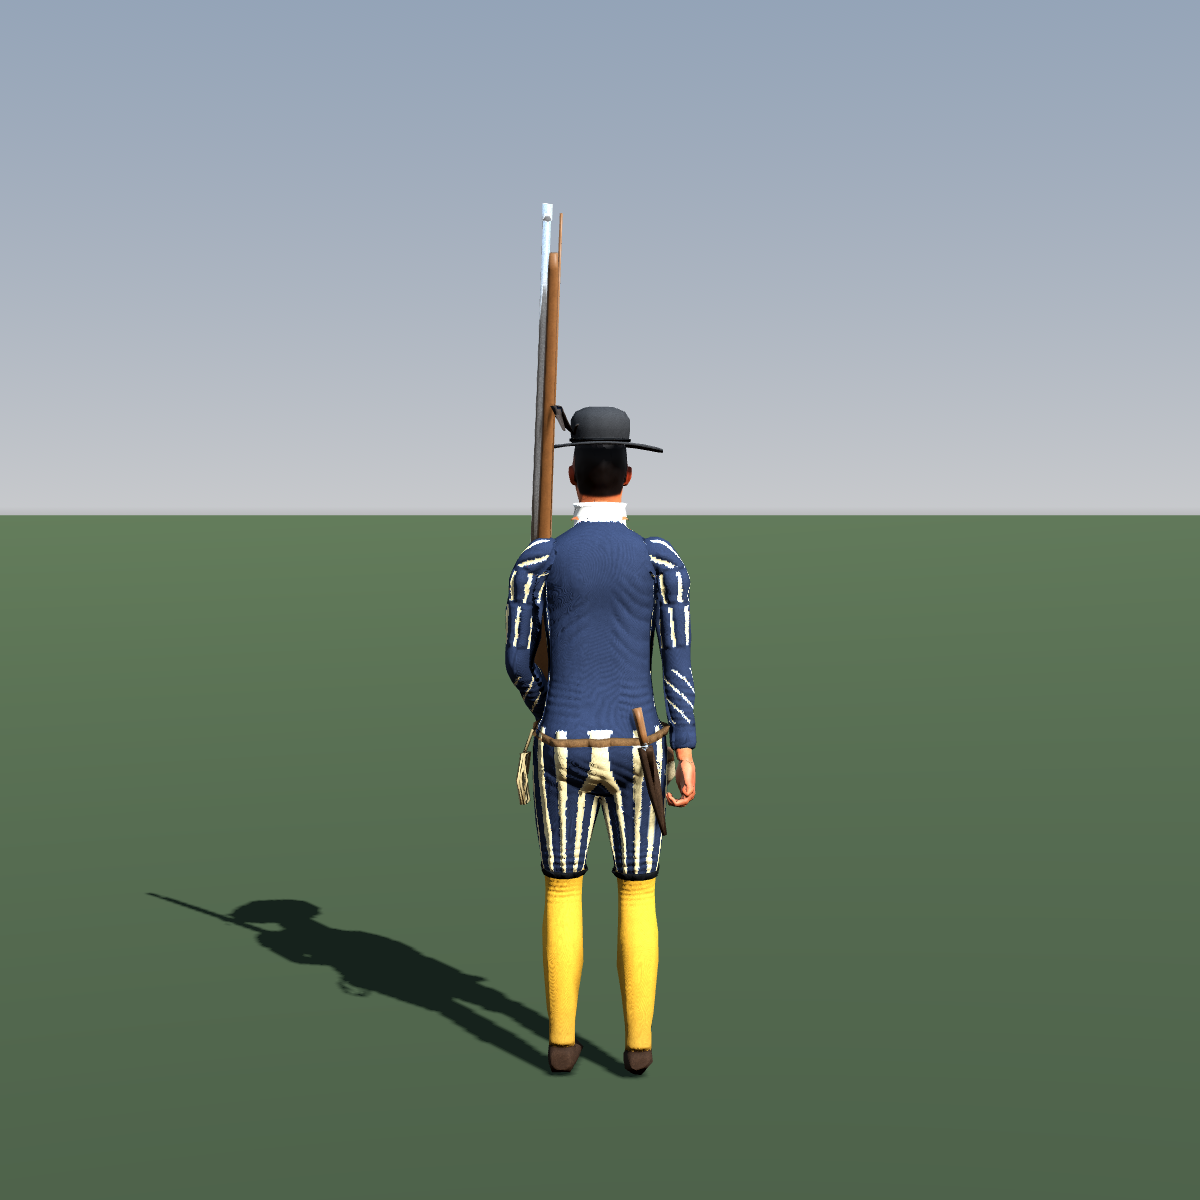
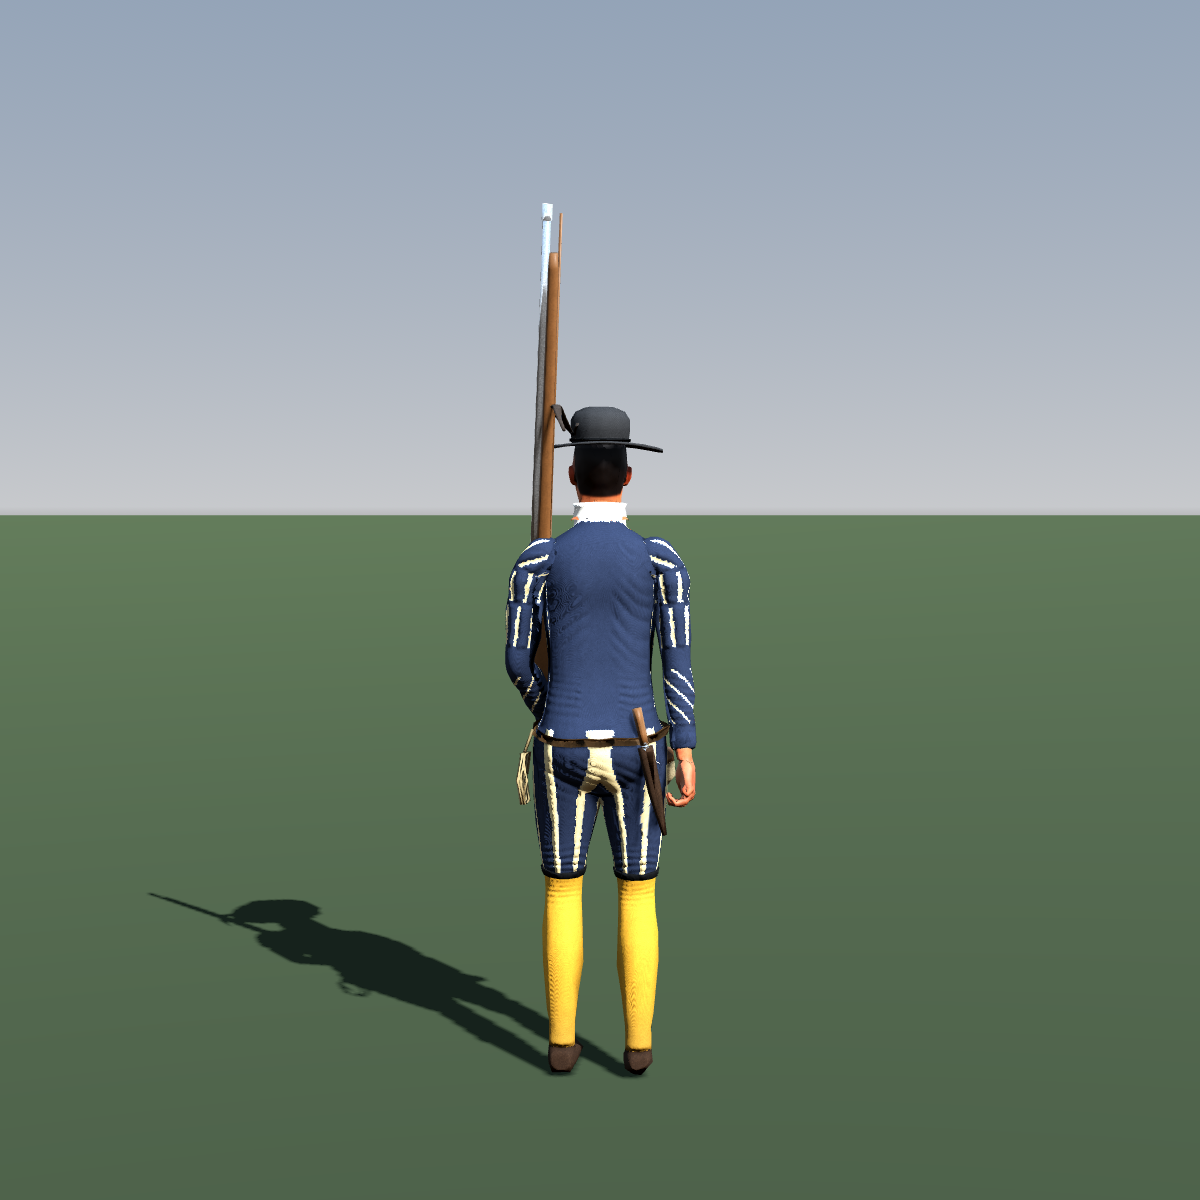
1500 kits: low gathered shirt neck (replaces tall stand collar), skin above 1.512, musket frill lowered

Changed region(s): [[0.4317, 0.5858, 0.555, 0.74], [0.4317, 0.4625, 0.4625, 0.5242], [0.555, 0.555, 0.5858, 0.5858]]

diff --git a/pipeline/blender/kit_em_musket.py b/pipeline/blender/kit_em_musket.py
@@ -24,6 +24,17 @@ C.SLOT_MAT.update({'sash': 'wool', 'waist': 'canvas', 'piping': 'wool', 'felt': 
                    'scabbard': 'worn_leather', 'shoe': 'worn_leather', 'breeches': 'wool', 'roll': 'canvas', 'stock': 'wood',
                    'epaulette': 'hide'})
 C.BODY_TRIS = 4700
+
+# low gathered shirt neck (1500): replaces the shared 6 cm stand collar, which read as a tall white tube
+_ring = C.ring
+def _low_collar(res):
+    nz, nu = res
+    secs = []
+    for t in (0.0, 0.5, 1.0):
+        r = _ring(V(0, 0.020, 0), V(1, 0, 0), V(0, 1, 0), 0.074 - 0.004 * t, 0.072 - 0.004 * t, 0.070 - 0.004 * t, nu, 2.2, 0.5)
+        secs.append([V(p.x, p.y, C.lerp(1.478, 1.512 - 0.010 * C.ss(0.04, 0.085, p.y), t)) for p in r])
+    return C.grid_sweep('collar', secs, cap0=True, cap1=True)
+C.collar_band = _low_collar
 HM.FIST['.L'] = 0.007
 C.HEAD_BOX = (0.21, -0.21, 0.22, 1.92)
 C.KIT_PAL = {'sash': '#e2d6b0', 'waist': '#ece7da', 'piping': '#24211f', 'felt': '#4a4038', 'plume': '#3a3430',
@@ -78,8 +89,8 @@ def zone(p, part):
         f = _frac(a + 0.2, N_PANE)
         return ('sash', 'lin', f / W_LIN) if f < W_LIN else ('coat', None, 0)
     if part == 'leg': return ('breeches', None, 0)
-    if z > 1.586: return ('skin', None, 0)
-    neck = 1.448 + 0.035 * ss(0.06, 0.12, ax) if y > 0 else 1.52
+    if z > 1.512: return ('skin', None, 0)   # low gathered shirt neck
+    neck = 1.448 + 0.035 * ss(0.06, 0.12, ax) if y > 0 else 1.49
     if z > neck: return ('waist', None, 0)
     if y > 0.03 and 1.16 < z < 1.42 and 0.025 < ax < 0.13:      # chevron slashes across the chest
         u = (ax * 0.8 + (z - 1.16) * 0.6) / 0.034
@@ -123,14 +134,14 @@ def frill(tree, hi=False):
     """gathered shirt band round the neck: a small ruffled stand above the doublet's square neck."""
     n = 120 if hi else 22
     secs = []
-    for zz, off in ((1.535, 0.0), (1.560, 0.004), (1.572, 0.010)):
+    for zz, off in ((1.498, 0.0), (1.515, 0.004), (1.524, 0.010)):
         ring_ = []
         for j in range(n):
             a = 2 * math.pi * j / n; d = V(math.cos(a), math.sin(a), 0)
             c = V(0, 0.020, zz)
             h = tree.ray_cast(c + d * 0.3, -d)
             r = ((V(h[0].x, h[0].y, 0) - V(0, 0.02, 0)).length if h[0] is not None else 0.06) + 0.004 + off
-            if hi and zz > 1.55: r += 0.004 * abs(math.sin(a * 22))
+            if hi and zz > 1.51: r += 0.004 * abs(math.sin(a * 22))
             ring_.append(V(math.cos(a) * r, 0.020 + math.sin(a) * r, zz))
         secs.append(ring_)
     secs = secs + [[V(p.x * 0.93, 0.02 + (p.y - 0.02) * 0.93, p.z) for p in secs[-1]]]

diff --git a/pipeline/blender/kit_em_pike.py b/pipeline/blender/kit_em_pike.py
@@ -24,6 +24,17 @@ C.TIP_LOCAL = (0.0, PIKE_Y1, 0.0)       # pike point (weapon_tip on the prop)
 C.SLOT_MAT.update({'sash': 'wool', 'waist': 'canvas', 'stock': 'wool', 'felt': 'wool', 'plume': 'canvas', 'cartbox': 'worn_leather',
                    'scabbard': 'worn_leather', 'shoe': 'worn_leather', 'breeches': 'wool', 'gaiter': 'wool'})
 C.BODY_TRIS = 4700
+
+# low gathered shirt neck (1500): replaces the shared 6 cm stand collar, which read as a tall white tube
+_ring = C.ring
+def _low_collar(res):
+    nz, nu = res
+    secs = []
+    for t in (0.0, 0.5, 1.0):
+        r = _ring(V(0, 0.020, 0), V(1, 0, 0), V(0, 1, 0), 0.074 - 0.004 * t, 0.072 - 0.004 * t, 0.070 - 0.004 * t, nu, 2.2, 0.5)
+        secs.append([V(p.x, p.y, C.lerp(1.478, 1.512 - 0.010 * C.ss(0.04, 0.085, p.y), t)) for p in r])
+    return C.grid_sweep('collar', secs, cap0=True, cap1=True)
+C.collar_band = _low_collar
 HM.FIST['.L'] = 0.007                   # empty left hand: relaxed fist
 C.HEAD_BOX = (0.21, -0.21, 0.22, 1.95)  # wide beret + plumes get head-level texel density
 C.KIT_PAL = {'sash': '#d8c99a', 'waist': '#ebe6d8', 'stock': '#2f2a26', 'felt': '#262220', 'plume': '#f0ebe0',
@@ -78,7 +89,7 @@ def zone(p, part):
         return ('sash', None) if f < W_LEG else ('coat', (f - W_LEG) / (1 - W_LEG))
     if part == 'leg':
         return ('breeches' if x > 0 else 'gaiter', None)
-    if z > 1.586: return ('skin', None)
+    if z > 1.512: return ('skin', None)   # low gathered shirt neck
     if y > 0.0 and z > 1.462 + 0.03 * ss(0.05, 0.11, ax): return ('waist', None)       # shirt in the low square neck
     if y < -0.02 and 1.12 < z < 1.42 and ax < 0.125:                                   # back: rows of short slashes
         rz = (z - 1.12) / 0.10; fr = rz % 1.0
